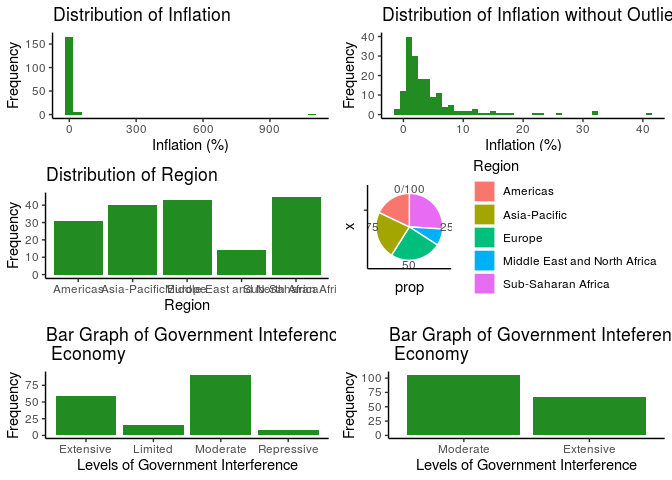
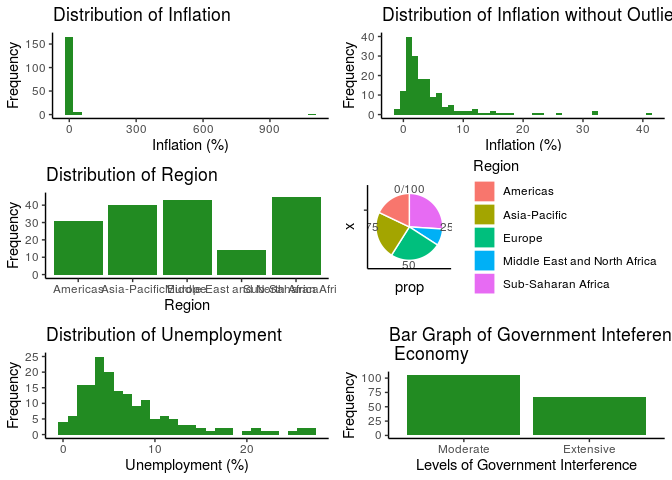
inflation categories + remove bar chart

Changed region(s): [[0.0, 0.6562, 0.5, 1.0]]

diff --git a/04-final-writeup/final-writeup.md b/04-final-writeup/final-writeup.md
@@ -127,6 +127,12 @@ with currency stability) is positive or negative, we have recoded it
 into a categorical variable that will make interpretation of these
 interaction terms easier.
 
+The categories are as follows: Inflation \> 6% = “Dangerously High”
+Inflation 3-4% = “High” Inflation 1-3% = “Healthy” Inflation \<1% =
+“Low”
+
+This categorization is informed
+
     ## # A tibble: 4 x 2
     ## # Groups:   cat_inflation [4]
     ##   cat_inflation        n
@@ -1616,12 +1622,9 @@ actual geographical distribution of nation-states.
 `GovInterference` represents the amount of interference that the
 government has in the economy as determined by the World Economic Index.
 The distribution of government interference shows that most countries
-either have extensive or moderate government inteference. The mode of
-the distribution is moderate government interference. Economies with
-limited and repressive intervention are significanly lesser, each having
-around 10-15 countries. We do not report the center or spread here
-because government interference is a categorical
-variable.
+either have extensive or moderate government inteference. The
+distribution between the two is relatively
+balanced.
 
 ![](final-writeup_files/figure-gfm/Income%20Tax%20Rate%20AW-1.png)<!-- -->
 
